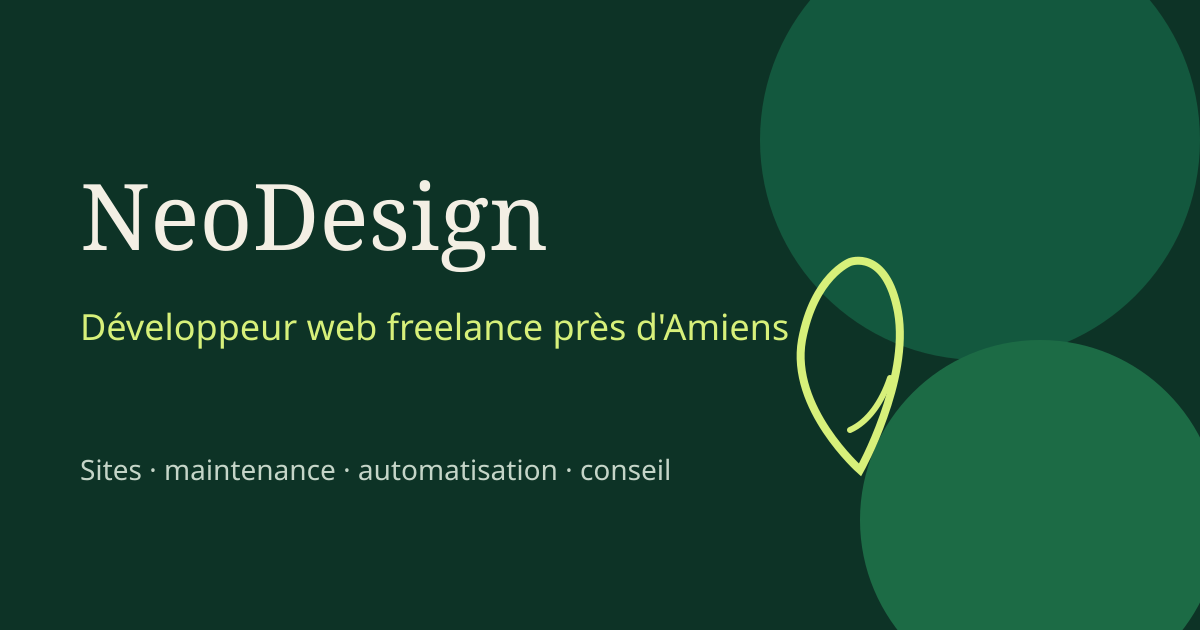
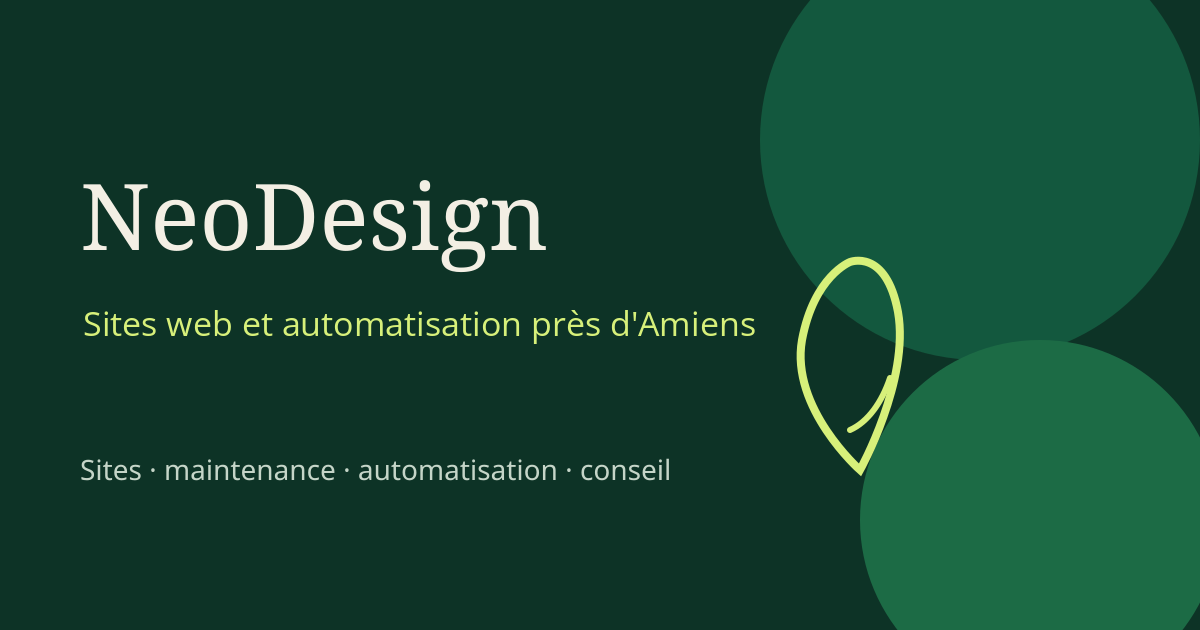
Page IA pour les TPE et voix NeoDesign sur tout le site (#2)
* Ajoute la page IA pour les TPE (diagnostic Gain de temps) et la met en avant sur l'accueil

- Nouvelle page /ia-tpe : offre diagnostic 290 €, mise en place, suivi, appel découverte 20 min
- Accueil : cartes Automatisation et IA vers /ia-tpe, bannière dédiée, textes sans jargon
- Menu Services et pied de page : lien IA pour les TPE
- Formulaire : message prérempli pour ?demande=appel-decouverte (payload inchangé)
- Close : props label et showPhone (rétrocompatibles)
- Mentions légales : Jimy Marletta EI, nom commercial Agence NeoDesign

* Passe le site à la voix NeoDesign, sans nom personnel hors mentions légales

- À propos réécrit en présentation de NeoDesign (compétences, zone, approche conservées)
- Accueil, contact, services, 404, formulaire, réponses du formulaire : voix « on »
- Tagline et image OG : « Sites web et automatisation près d'Amiens »
- schema.org : retrait du bloc founder
- Confidentialité : responsable du traitement = l'EI, renvoi aux mentions légales
- Projet Finsweet à la troisième personne

Changed region(s): [[0.0617, 0.4825, 0.6783, 0.5429]]

diff --git a/src/lib/site.ts b/src/lib/site.ts
@@ -1,6 +1,6 @@
 export const site = {
   name: "NeoDesign",
-  tagline: "Développeur freelance près d'Amiens",
+  tagline: "Sites web et automatisation près d'Amiens",
   url: "https://www.agenceneodesign.com",
   email: "bonjour@agenceneodesign.com",
   phoneDisplay: "07 82 73 22 79",
@@ -50,7 +50,7 @@ export const offers = [
     unit: "",
     cadence: "",
     summary:
-      "Formulaires, devis, relances et réservations s'enchaînent avec n8n, et l'IA seulement là où elle fait gagner du temps.",
+      "Demandes, devis, relances et documents qui se traitent presque tout seuls, avec l'IA là où elle fait gagner du temps.",
   },
   {
     id: "conseil",
@@ -152,8 +152,18 @@ export const mobileService = {
   summary: "Une application pour le téléphone, quand le site ne suffit plus. Le périmètre se décide au devis.",
 } as const;
 
+export const iaTpe = {
+  href: "/ia-tpe",
+  name: "IA pour les TPE",
+  summary: "Diagnostic Gain de temps : une demi-journée pour repérer ce qui peut s'automatiser chez vous.",
+  price: "290\u202f€",
+} as const;
+
 export const serviceLinks = [
-  ...offers.map((offer) => ({ href: offer.href, label: offer.name })),
+  ...offers.flatMap((offer) => [
+    { href: offer.href, label: offer.name },
+    ...(offer.id === "automatisation" ? [{ href: iaTpe.href, label: iaTpe.name }] : []),
+  ]),
   { href: mobileService.href, label: mobileService.name },
 ] as const;
 

diff --git a/src/lib/contact-endpoint.ts b/src/lib/contact-endpoint.ts
@@ -81,7 +81,7 @@ function reply(html: boolean, status: number, body: JsonBody, extra?: Record<str
 
   const title = body.ok ? "Message envoyé" : "Envoi impossible";
   const text = body.ok
-    ? `Message envoyé. Je vous réponds sous ${site.responseTime}. Si c'est urgent, appelez-moi au ${site.phoneDisplay}.`
+    ? `Message envoyé. On vous répond sous ${site.responseTime}. Si c'est urgent, appelez-nous au ${site.phoneDisplay}.`
     : body.error;
   headers["content-type"] = "text/html; charset=utf-8";
   return new Response(

diff --git a/src/content/projects/finsweet.md b/src/content/projects/finsweet.md
@@ -21,4 +21,4 @@ tags:
 
 ## Ce qui a été fait
 
-J'ai participé au développement d'Attributes, en TypeScript. J'ai aussi travaillé sur un site réalisé par Finsweet pour un de ses clients, pour y implémenter certaines bibliothèques.
+NeoDesign a participé au développement d'Attributes, en TypeScript, et a travaillé sur un site réalisé par Finsweet pour un de ses clients, pour y implémenter certaines bibliothèques.

diff --git a/README.md b/README.md
@@ -1,6 +1,6 @@
 # NeoDesign
 
-Site vitrine de Jimy Marletta, développeur web freelance près d'Amiens.  
+Site vitrine de NeoDesign, studio web près d'Amiens.
 Astro, pages statiques, français. Le formulaire de contact passe par une fonction serveur.
 
 ```bash
